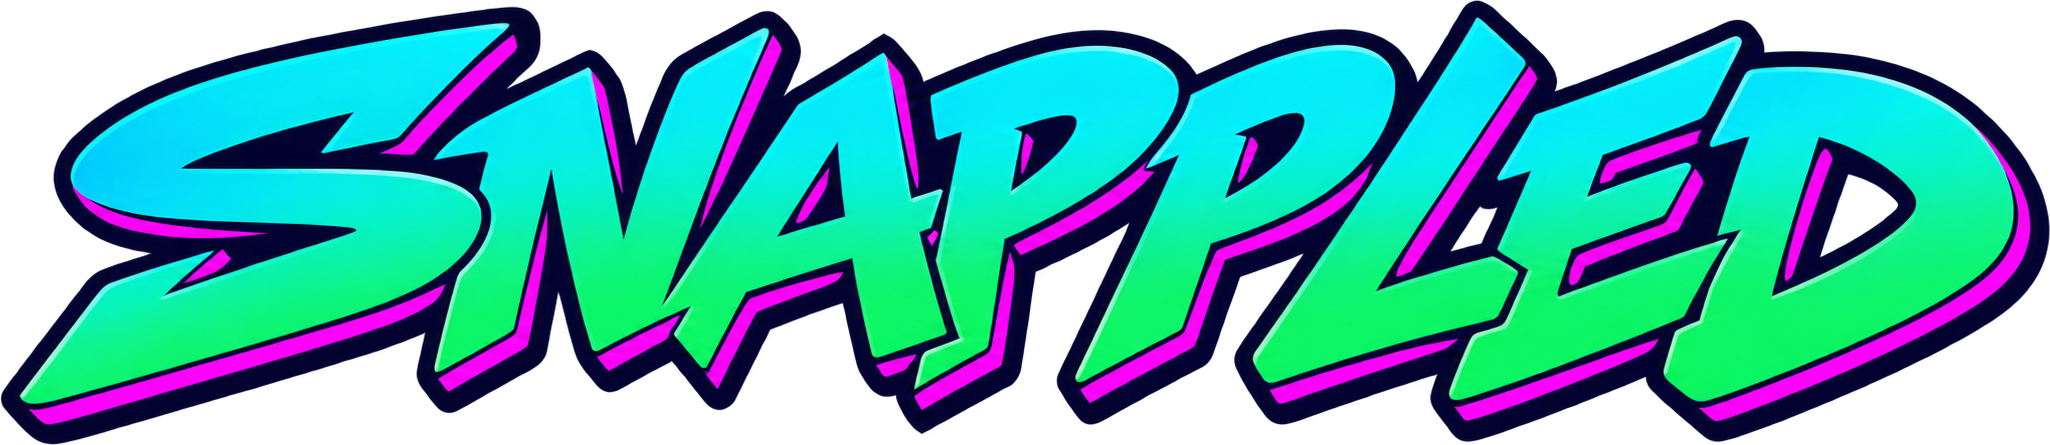
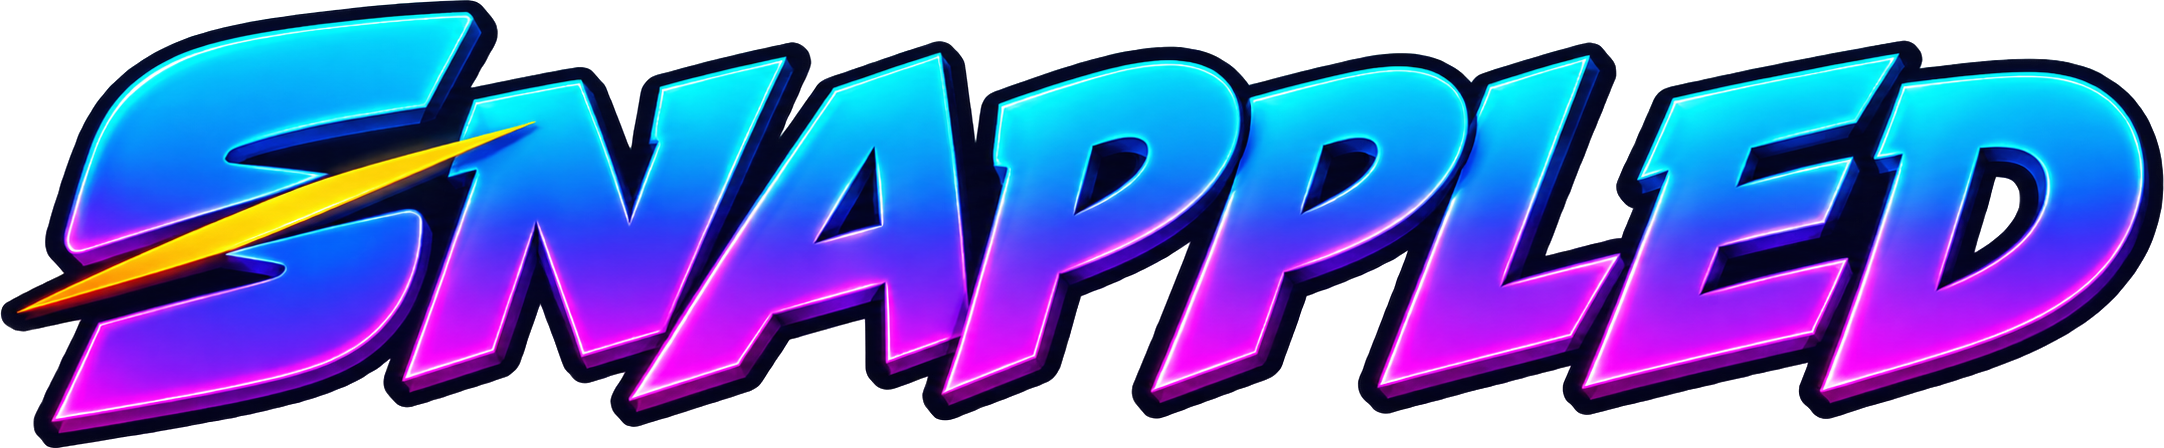
feat: new wordmark, and a profile that keeps its tab bar
New Snappled wordmark across the play, landing and signup screens.

The art arrived transparent but carrying a halo - 19,133 pixels at
alpha 64 or below. Invisible on white, a grey-violet smear on the app's
dark gradient, and it inflates the content box so resizeMode contain
draws the mark smaller than the box asks for. deglow then trimicon:
2172x724 -> 2164x448, art filling the canvas. True aspect is 4.83, not
the old mark's 4.61, so the boxes move with it.

Landing and signup both showed the S icon above a text title. Same
two-logos-stacked problem the play screen already fixed: the wordmark
contains the S and the bolt, so the icon was saying it twice.

NOTIFICATION NAV. Tapping a new-follower notification opened the
profile with no bottom tab bar. OtherPersonsProfile is registered twice
on purpose - once inside the Profile tab, once at the root for callers
outside the tabs - and React Navigation picks the closest match. A
notification navigates through navigationRef, which IS the root, so it
always got the rootless copy. Naming the full path (Main > Profile >
OtherPersonsProfile) lands it where every other route to that screen
ends up.

COPY. The signup welcome alert still promised "10 topic tickets". New
accounts get 25 - this was missed when STARTING_TICKETS moved. Also two
"Topic Ticket" labels on the create-prompt screen, and a dead
TokenPromptModal titled "Topic Tickets" with no importers.

diff --git a/src/services/fcmService.js b/src/services/fcmService.js
@@ -282,6 +282,26 @@ class FCMService {
     }
   }
 
+  // openProfile — someone else's profile, WITH the tab bar.
+  //
+  // OtherPersonsProfile is registered twice on purpose (see
+  // Navigation.js): once inside the Profile tab's stack, and once at
+  // the root for callers that live outside the tabs. React Navigation
+  // resolves the closest match, so tapping a profile from anywhere in
+  // the app lands on the tab-hosted copy and the bar stays put.
+  //
+  // A notification does not come from anywhere in the app. It navigates
+  // through navigationRef, which IS the root navigator, so the closest
+  // match is the root copy - a profile with no tab bar and no way back
+  // except the system gesture. Naming the full path puts it inside the
+  // tab where every other route to this screen ends up.
+  openProfile(userId) {
+    this.navigationRef.navigate('Main', {
+      screen: 'Profile',
+      params: { screen: 'OtherPersonsProfile', params: { userId } },
+    });
+  }
+
   // navigateFromNotification — routes a notification payload to the
   // right screen. Called from both foreground toast tap AND background
   // tap. Supported types map to Snappled's actual routes.
@@ -301,13 +321,13 @@ class FCMService {
       switch (type) {
         case 'new_follower':
         case 'mutual_follow':
-          if (userId) this.navigationRef.navigate('OtherPersonsProfile', { userId });
+          if (userId) this.openProfile(userId);
           break;
         case 'followed_user_snapple':
           // Land on the creator's profile — user can tap the specific
           // snapple from their created grid. Deep-linking directly to
           // a single snapple would need a dedicated route.
-          if (userId) this.navigationRef.navigate('OtherPersonsProfile', { userId });
+          if (userId) this.openProfile(userId);
           break;
         case 'game_invite':
           if (gameId) this.navigationRef.navigate('Game', { gameId });

diff --git a/src/screens/SignupScreen.js b/src/screens/SignupScreen.js
@@ -107,7 +107,7 @@ export default function SignupScreen({ navigation }) {
       if (result.success) {
         Alert.alert(
           'Account Created! 🎉',
-          `Welcome to Snappled, @${formData.username}!\n\nYou've been given:\n• 100 coins 🪙\n• 10 topic tickets 🎫\n\nTime to start creating!`,
+          `Welcome to Snappled, @${formData.username}!\n\nYou've been given:\n• 100 coins 🪙\n• 25 tickets 🎫\n\nTime to start creating!`,
           [{ 
             text: 'Continue', 
             onPress: () => {
@@ -146,13 +146,15 @@ export default function SignupScreen({ navigation }) {
       <ScrollView showsVerticalScrollIndicator={false} style={styles.scrollView}>
         <View style={styles.header}>
           <Image
-            source={require('../../assets/images/icon-android.png')}
-            style={styles.mark}
+            source={require('../../assets/images/wordmark.png')}
+            style={styles.wordmark}
             resizeMode="contain"
           />
           {/* Same mark and the same plain voice as the landing screen.
               "Join Snappled! 🎬" and "Welcome Back! 👋" were two
-              different apps talking to you two screens apart. */}
+              different apps talking to you two screens apart - and the
+              S icon here against the wordmark next door was the same
+              mistake in pictures. */}
           <Text style={styles.title}>Create account</Text>
         </View>
 
@@ -288,9 +290,10 @@ const makeStyles = (t) => ({
     marginTop: 32,
     marginBottom: theme.sizes.spacing?.lg || 24,
   },
-  mark: {
-    width: 96,
-    height: 96,
+  // Matches the landing screen and the play screen: one mark, one size.
+  wordmark: {
+    width: 260,
+    height: 54,
     marginBottom: 8,
   },
   title: {

diff --git a/src/screens/LandingScreen.js b/src/screens/LandingScreen.js
@@ -163,13 +163,17 @@ export default function LandingScreen({ navigation }) {
           contentContainerStyle={styles.scrollContent}
           keyboardShouldPersistTaps="handled"
         >
+          {/* Wordmark alone, same as the play screen. This was the S
+              icon above the name set in the app font - two marks in two
+              different treatments, stacked, reading as two logos rather
+              than one. The wordmark already contains the S and the
+              bolt, so the icon was saying it twice. */}
           <View style={styles.header}>
             <Image
-              source={require('../../assets/images/icon-android.png')}
-              style={styles.mark}
+              source={require('../../assets/images/wordmark.png')}
+              style={styles.wordmark}
               resizeMode="contain"
             />
-            <Text style={styles.title}>Snappled</Text>
           </View>
 
           {/* Social first, and above the fold. The email form used to
@@ -356,15 +360,13 @@ const makeStyles = (t) => ({
     // clear the fold on a small phone.
     marginBottom: 24,
   },
-  mark: {
-    width: 120,
-    height: 120,
-  },
-  title: {
-    fontSize: 48,
-    fontFamily: theme.fonts.bold,
-    color: t.colors.textPrimary,
-    textAlign: 'center',
+  // 300x62 is the wordmark's own aspect (2164x448 after trimming), so
+  // resizeMode contain fills the box instead of letterboxing inside it.
+  // Same dimensions as the play screen - it is the same mark and there
+  // is no reason for it to be two sizes.
+  wordmark: {
+    width: 300,
+    height: 62,
   },
   formContainer: {
     // Was 40, which left a canyon between the password field and the

diff --git a/src/screens/CreatePromptScreen.jsx b/src/screens/CreatePromptScreen.jsx
@@ -42,7 +42,7 @@ export default function CreatePromptScreen({ navigation }) {
     }
 
     if (userCurrency.tokens < 1) {
-      showError('Insufficient Tickets', 'You need at least 1 topic ticket to create a prompt');
+      showError('Insufficient Tickets', 'You need at least 1 ticket to create a prompt');
       return;
     }
 
@@ -108,7 +108,7 @@ export default function CreatePromptScreen({ navigation }) {
                 <Text style={styles.guidelinesLink}>View Guidelines</Text>
               </Pressable>
               <View style={styles.tokenInfo}>
-                <Text style={styles.tokenText}>🎫 Cost: 1 Topic Ticket</Text>
+                <Text style={styles.tokenText}>🎫 Cost: 1 Ticket</Text>
                 <Text style={styles.balanceText}>
                   Your balance: {userCurrency.tokens || 0} tickets
                 </Text>

diff --git a/src/screens/GameScreen.jsx b/src/screens/GameScreen.jsx
@@ -2849,8 +2849,10 @@ const makeStyles = (t) => ({
   // being guessed at. Trimmed to its own artwork, so unlike the icon
   // above it there is no baked padding to cancel out.
   lobbyWordmark: {
+    // Matches the art's own aspect (2164x448), so contain fills the box
+    // rather than letterboxing the mark inside a slightly wrong one.
     width: 300,
-    height: 65,
+    height: 62,
   },
   lobbySubtitle: {
     color: t.colors.textSecondary, fontSize: 14, textAlign: 'center', lineHeight: 20,
